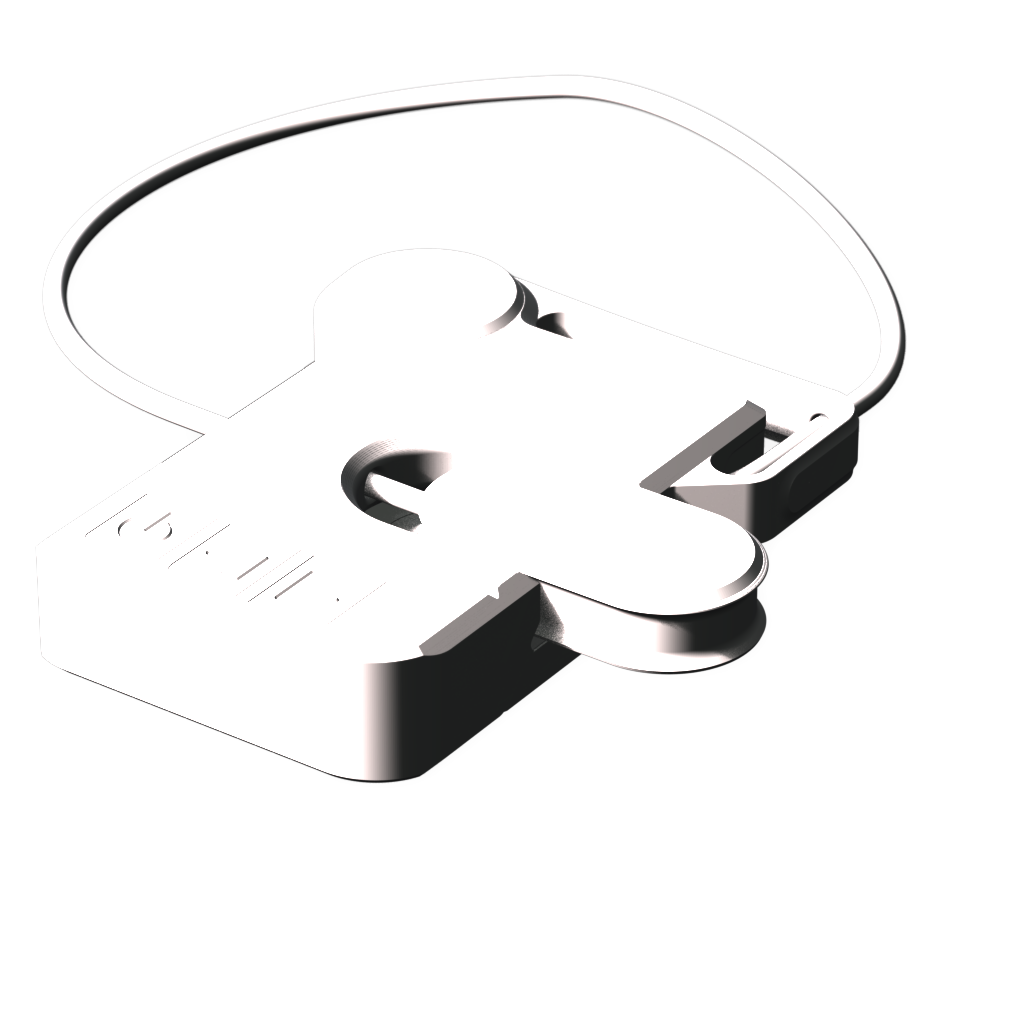
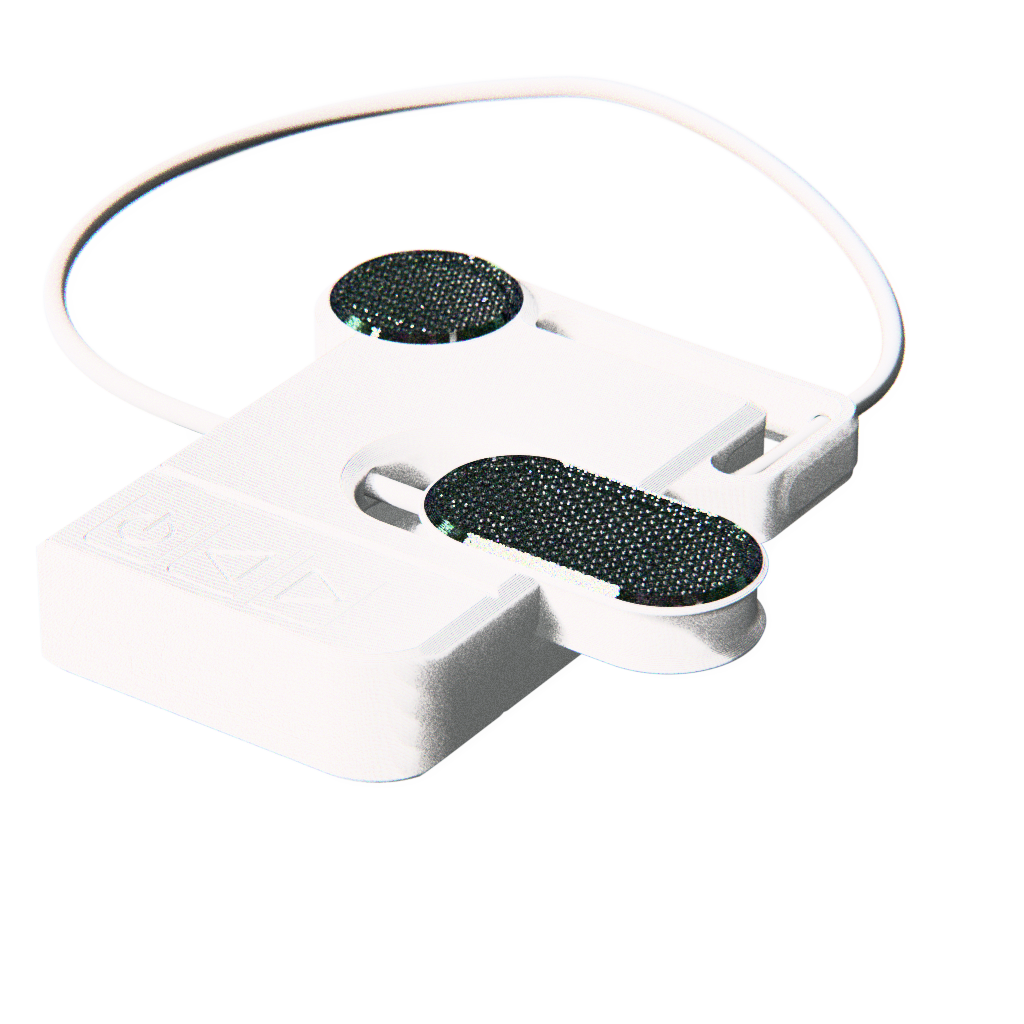
AFZ fix — product_beauty sliced from full-scene alpha (not isolated render)

diff --git a/afz_layerbreak.html b/afz_layerbreak.html
@@ -100,7 +100,8 @@ body{
   <div class="canvas" id="canvas">
 
     <!-- z1: Environment (alpha = everything except product) -->
-    <img class="ly on" id="env-studio"    src="img/afz/sliced/env_studio.png">
+    <img class="ly on" id="env-beauty"   src="img/afz/sliced/env_beauty.png">
+    <img class="ly"    id="env-studio"    src="img/afz/sliced/env_studio.png">
     <img class="ly"    id="env-dramatic"  src="img/afz/sliced/env_dramatic.png">
     <img class="ly"    id="env-brutalist" src="img/afz/sliced/env_brutalist.png">
 
@@ -121,7 +122,8 @@ body{
 <div class="ctrl-section">
   <div class="ctrl-label">Environment</div>
   <div class="ctrl-row" id="env-grp">
-    <button class="ctrl-btn on" data-id="env-studio"><span class="dot"></span>Studio</button>
+    <button class="ctrl-btn on" data-id="env-beauty"><span class="dot"></span>Beauty</button>
+    <button class="ctrl-btn"    data-id="env-studio"><span class="dot"></span>Studio</button>
     <button class="ctrl-btn"    data-id="env-dramatic"><span class="dot"></span>Dramatic</button>
     <button class="ctrl-btn"    data-id="env-brutalist"><span class="dot"></span>Brutalist</button>
   </div>